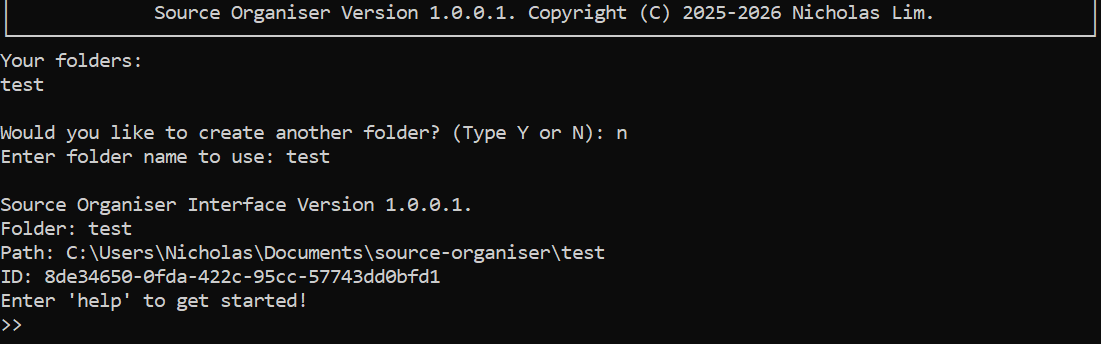
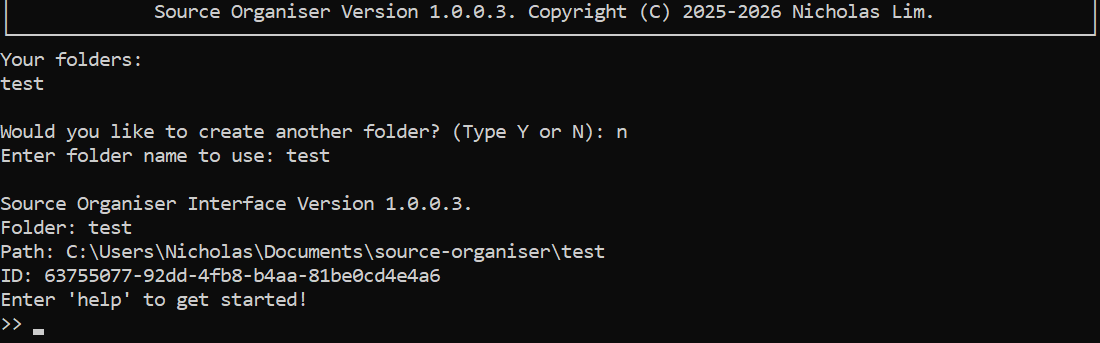
Update to v1.0.0.3

diff --git a/downloads.html b/downloads.html
@@ -26,7 +26,7 @@
       <p>A user-friendly CLI file organiser for developers with more human-readable commands.</p>
       <img style="height: 50%; width: 50%; border-radius: 0; border: 0" src="source-organiser.png" alt="Source Organiser user interface">
       <p>Install with: <code>pip install source-organiser</code></p>
-      <p>Or download via releases: <a href="https://github.com/Nicholas1023/source-organiser/releases/download/v1.0.0/source_organiser-1.0.0.1-py3-none-any.whl">source_organiser-1.0.0.1-py3-none-any.whl</a><br>SHA-256: <a href="source_organiser-1.0.0.1-py3-none-any.whl.sha256">source_organiser-1.0.0.1-py3-none-any.whl.sha256</a></p>
+      <p>Or download via releases: <a href="https://github.com/Nicholas1023/source-organiser/releases/download/v1.0.0/source_organiser-1.0.0.3-py3-none-any.whl">source_organiser-1.0.0.3-py3-none-any.whl</a><br>SHA-256: <a href="source_organiser-1.0.0.3-py3-none-any.whl.sha256">source_organiser-1.0.0.3-py3-none-any.whl.sha256</a></p>
       <p><a href="https://github.com/Nicholas1023/source-organiser">Visit repository</a></p>
     </main>
   </body>
